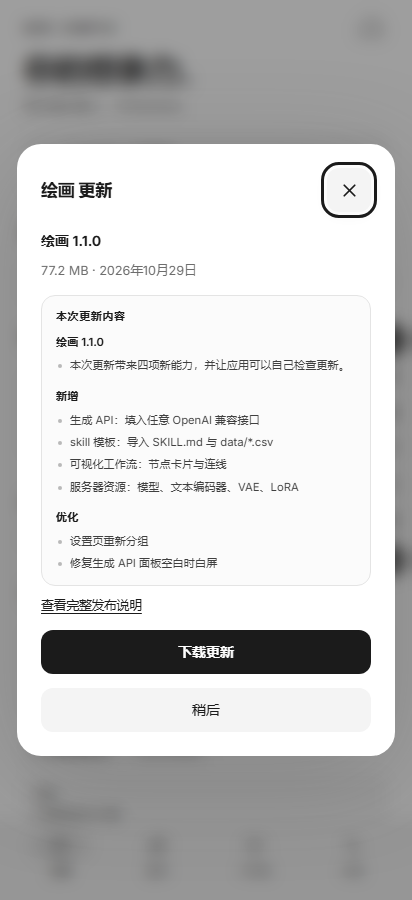
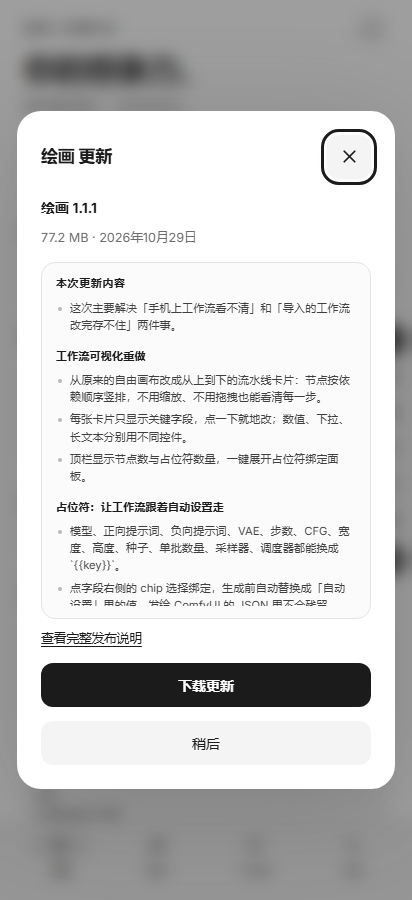
chore(release): 1.1.1 publishing scripts and release notes

Changed region(s): [[0.0291, 0.1244, 0.9612, 0.9022], [0.4951, 0.3422, 0.5534, 0.3733]]

diff --git a/_build/release-1.1.1.md b/_build/release-1.1.1.md
@@ -1,0 +1,33 @@
+这次主要解决「手机上工作流看不清」和「导入的工作流改完存不住」两件事。
+
+# 工作流可视化重做
+- 从原来的自由画布改成从上到下的流水线卡片：节点按依赖顺序竖排，不用缩放、不用拖拽也能看清每一步。
+- 每张卡片只显示关键字段，点一下就地改；数值、下拉、长文本分别用不同控件。
+- 顶栏显示节点数与占位符数量，一键展开占位符绑定面板。
+
+# 占位符：让工作流跟着自动设置走
+- 模型、正向提示词、负向提示词、VAE、步数、CFG、宽度、高度、种子、单批数量、采样器、调度器都能换成 `{{key}}`。
+- 点字段右侧的 chip 选择绑定，生成前自动替换成「自动设置」里的值，发给 ComfyUI 的 JSON 里不会残留 `{{`。
+- 「联动到自动设置」：把工作流里已有的真实参数反向写回自动模式，导入别人的工作流时不用再手抄。
+
+# 工作流库
+- 编辑过的 API 工作流可以命名保存到本机（最多 60 个），随时重新载入，也可以导出 JSON。
+- 保存的是带占位符的原始图，不会把自动设置的值固化进去。
+
+# 提示词助手
+- 新增「直接生成」：一个输入框写描述，输出一段纯提示词。
+- 输出后一键复制，浏览器/WebView 不支持 Clipboard API 时自动降级到隐藏 textarea 方案。
+- 仍然可以选择 skill 模板，让生成结果按模板结构组织。
+
+# 工坊
+- 实时预览对接工作流里的 PreviewImage / SaveImage 节点，出图直接显示在工坊预览区。
+- 设置里的「安全」板块已隐藏，常用项集中到「工坊」「生成 API」「服务器资源」「应用」四组。
+
+# 其他
+- 界面文案补齐简体中文/English 双语，共 885 条键。
+- 版本号 1.1.1（versionCode 10101），与 1.0.0 / 1.1.0 使用同一签名证书，可直接覆盖升级。
+
+# 安装
+- 下载 `huihua-1.1.1-arm64.apk`，需要 Android 10（API 29）及以上、arm64-v8a。
+- 首次安装需允许「安装未知来源应用」。
+- 已装旧版本的用户：应用内「检查更新」会弹出这个版本，也可以在设置里关闭自动检查。
